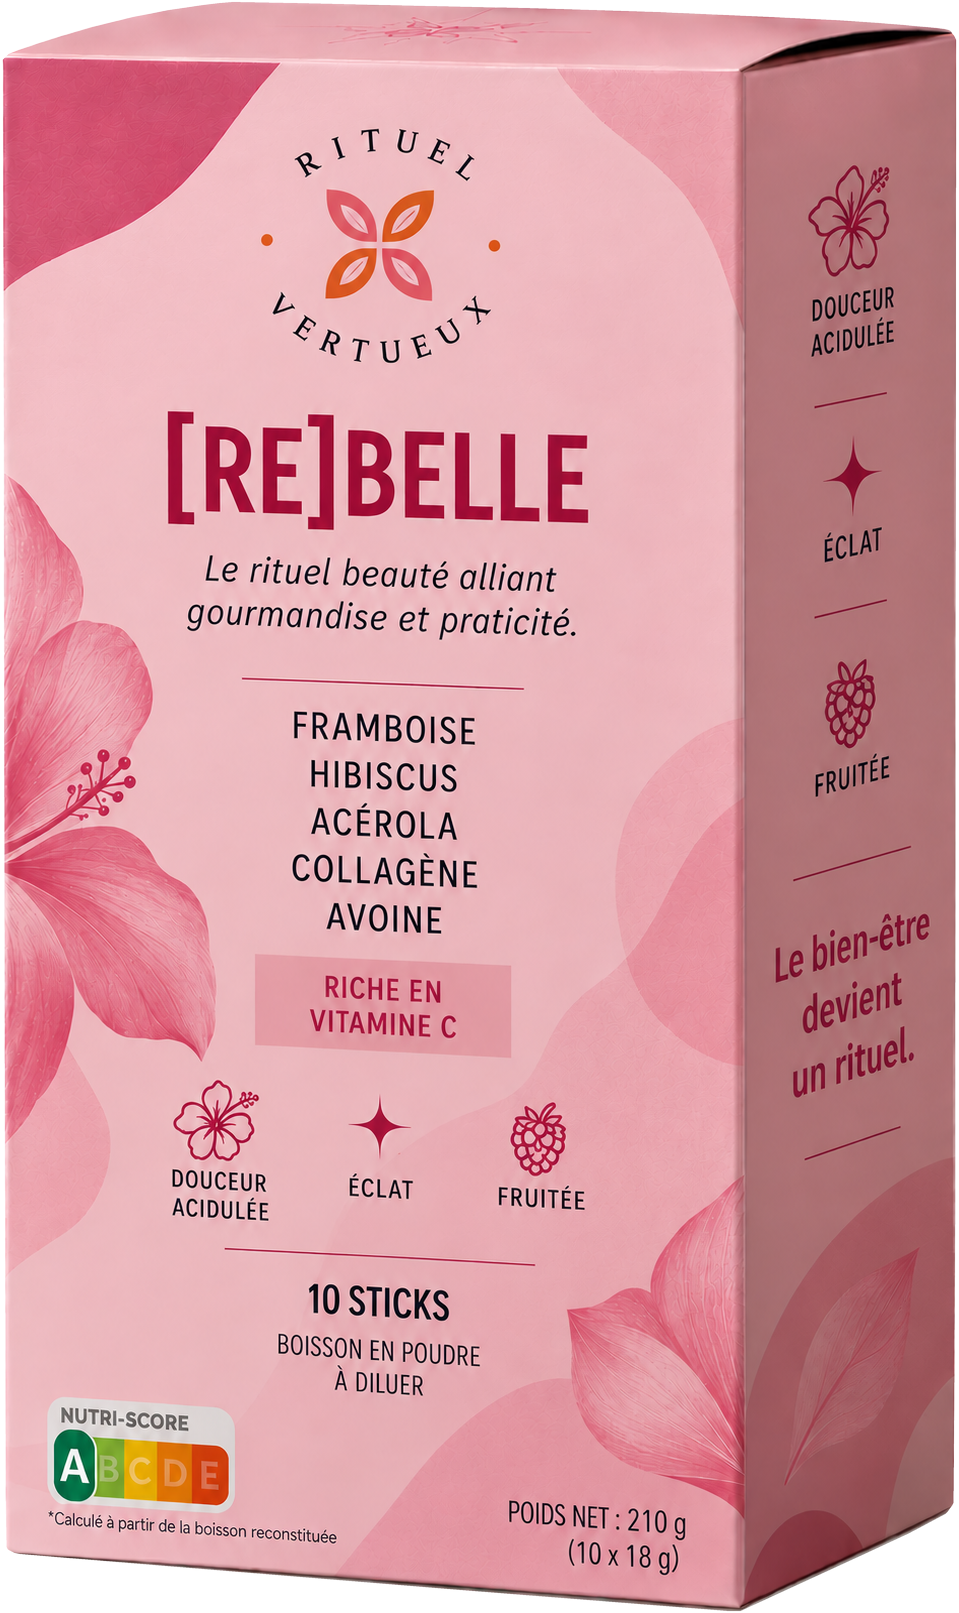
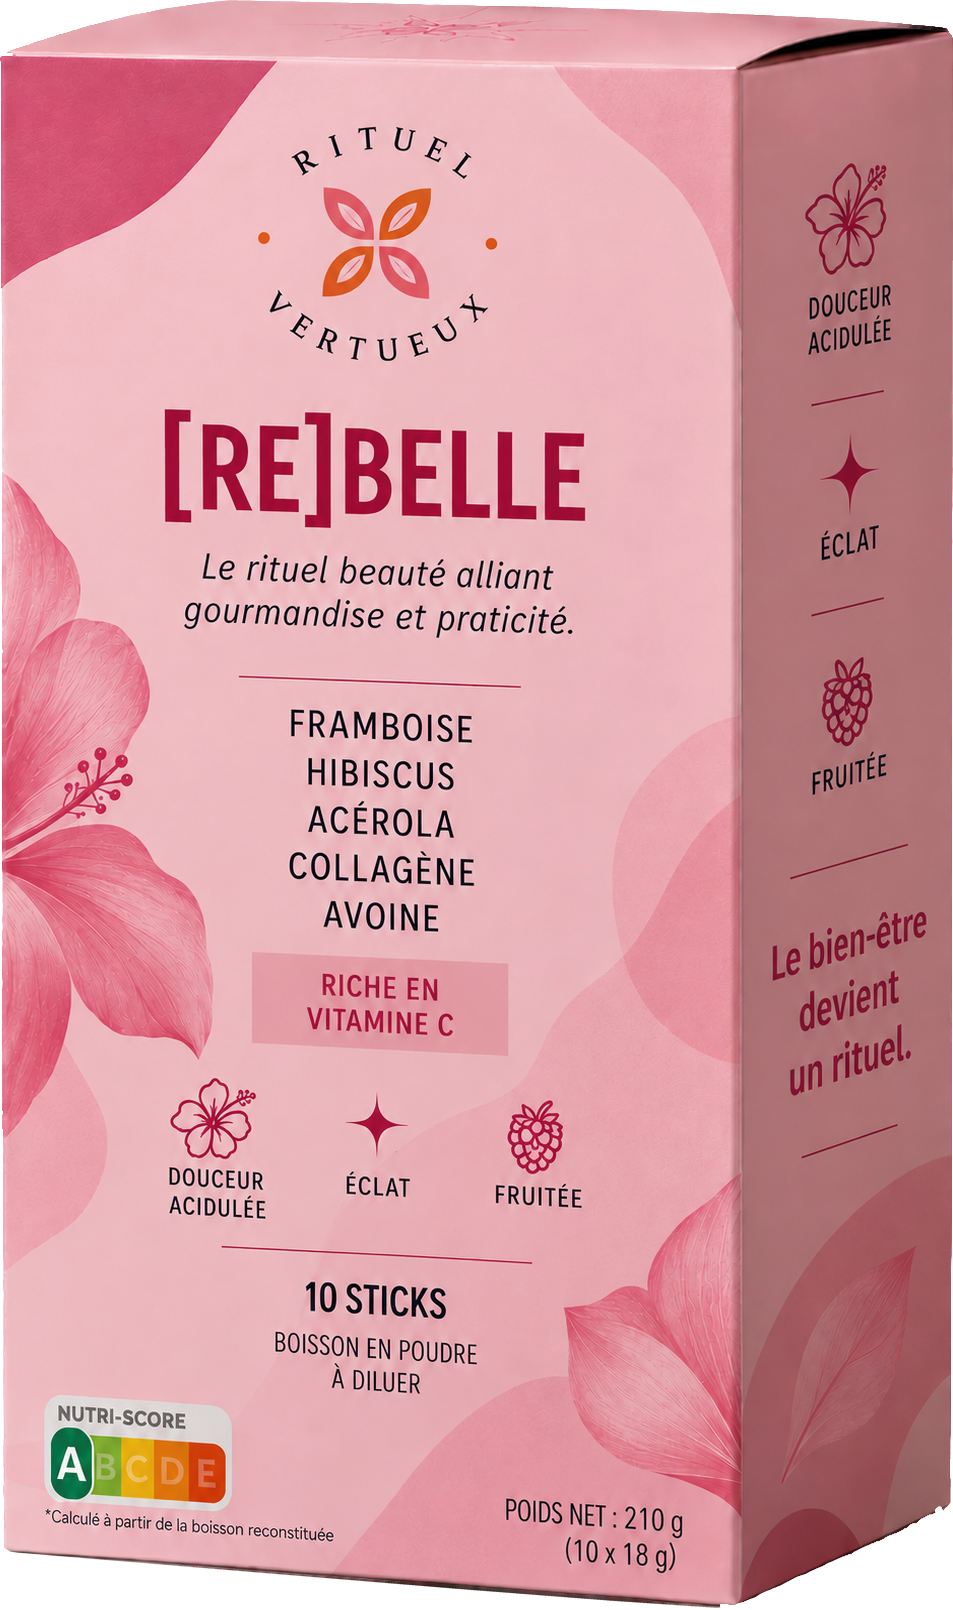
fix: détourage des boîtes et ombre portée coupée
- Boîtes : PNG fournis par la cliente (pngcorrectR/J), finalisés
  (ombre au sol opaque retirée via enveloppe convexe des pixels de
  carton, liseré blanc recoloré, arêtes sombres conservées)
- ResponsiveImage : plus d'overflow-hidden sur les détourés ; il
  coupait le drop-shadow et dessinait un rectangle autour des boîtes

diff --git a/src/components/ui/ResponsiveImage.tsx b/src/components/ui/ResponsiveImage.tsx
@@ -49,7 +49,14 @@ export function ResponsiveImage({
 
   return (
     <div
-      className={cn('relative overflow-hidden', layout === 'fill' && 'h-full w-full', className)}
+      className={cn(
+        'relative',
+        // overflow-hidden seulement pour les photos (placeholder flou agrandi) : sur les détourés,
+        // il couperait net l'ombre portée (drop-shadow) aux bords de l'image.
+        lqip && 'overflow-hidden',
+        layout === 'fill' && 'h-full w-full',
+        className,
+      )}
       style={{ ...(layout === 'natural' ? { aspectRatio: `${picture.img.w} / ${picture.img.h}` } : null), ...style }}
     >
       {lqip && (

diff --git a/scripts/prepare-images.py b/scripts/prepare-images.py
@@ -3,7 +3,8 @@
 Sources brutes : docs/photos/ (non versionnées). Sorties : src/assets/images/.
 - photos/ : JPEG q90, largeur max 1280 px (vite-imagetools génère ensuite AVIF/WebP).
 - cutouts/ : PNG avec alpha. Sticks : flood-fill depuis les bords (fond studio blanc).
-  Boîtes : masque couleur (l'ombre portée grise est exclue) → enveloppe convexe → tracé anticrénelé.
+  Boîtes : PNG détourés fournis par la cliente (pngcorrectR/J.png), finalisés par finish_box_cutout :
+  suppression des résidus, arêtes redressées (enveloppe convexe), liseré blanc retiré.
 Usage : python3 scripts/prepare-images.py
 """
 import os
@@ -55,7 +56,8 @@ PHOTOS = {
     46: ('reconfort-plaisir', None),
 }
 CUTOUTS = {0: 'rebelle-stick', 1: 'reconfort-stick'}
-BOXES = {2: 'rebelle-box', 3: 'reconfort-box'}
+# Boîtes : PNG fournis par la cliente (docs/photos, non versionnés), finalisés par finish_box_cutout.
+BOXES = {'pngcorrectR.png': 'rebelle-box', 'pngcorrectJ.png': 'reconfort-box'}
 
 def detour(im: Image.Image) -> Image.Image:
     im = im.convert('RGB')
@@ -133,6 +135,67 @@ def detour_box(im: Image.Image, supersample: int = 4, inset: float = 1.2) -> Ima
     return out.crop(alpha.getbbox())
 
 
+def finish_box_cutout(im: Image.Image, supersample: int = 4, inset: float = 1.5, band: int = 3) -> Image.Image:
+    """Termine un détourage de boîte « presque correct ».
+
+    1. Alpha borné par l'enveloppe convexe des pixels de carton (une boîte en 3/4 est convexe) :
+       supprime l'ombre portée restée opaque, les pixels résiduels, et redresse les arêtes.
+    2. Alpha d'origine érodé d'un pixel : retire le liseré de fond blanc.
+    3. Décontamination des couleurs : dans la bande de bord, un pixel plus clair que le carton
+       voisin (fond blanc qui bave) reprend la couleur du carton ; les arêtes sombres restent.
+    """
+    from scipy import ndimage
+
+    rgba = np.asarray(im.convert('RGBA')).astype(np.float32)
+    alpha = rgba[..., 3]
+    h, w = alpha.shape
+    # Seuls les pixels de carton servent à l'enveloppe : l'ombre portée au sol, grise et peu
+    # saturée, est exclue même si elle est opaque dans le fichier fourni.
+    rgb_in = rgba[..., :3]
+    saturation = rgb_in.max(axis=2) - rgb_in.min(axis=2)
+    darker = 250 - rgb_in.mean(axis=2)
+    mask = (alpha > 128) & ((saturation > 30) | (darker > 90))
+    mask = ndimage.binary_opening(mask, iterations=2)
+    labels, count = ndimage.label(mask)
+    if count > 1:
+        sizes = ndimage.sum(mask, labels, range(1, count + 1))
+        mask = labels == (int(np.argmax(sizes)) + 1)
+    ys, xs = np.nonzero(mask)
+    rows = {}
+    for x, y in zip(xs.tolist(), ys.tolist()):
+        lo, hi = rows.get(y, (x, x))
+        rows[y] = (min(lo, x), max(hi, x))
+    pts = [(lo, y) for y, (lo, hi) in rows.items()] + [(hi + 1, y) for y, (lo, hi) in rows.items()]
+    pts += [(lo, y + 1) for y, (lo, hi) in rows.items()] + [(hi + 1, y + 1) for y, (lo, hi) in rows.items()]
+    hull = convex_hull(pts)
+    cx = sum(p[0] for p in hull) / len(hull)
+    cy = sum(p[1] for p in hull) / len(hull)
+    def shrink(p):
+        dx, dy = p[0] - cx, p[1] - cy
+        dist = (dx * dx + dy * dy) ** 0.5 or 1
+        return (p[0] - dx / dist * inset, p[1] - dy / dist * inset)
+    big = Image.new('L', (w * supersample, h * supersample), 0)
+    ImageDraw.Draw(big).polygon([(x * supersample, y * supersample) for x, y in map(shrink, hull)], fill=255)
+    hull_alpha = np.asarray(big.resize((w, h), Image.LANCZOS)).astype(np.float32)
+    eroded = ndimage.grey_erosion(alpha, size=(3, 3))
+    final_alpha = np.minimum(hull_alpha, eroded)
+    # couleurs : pixels « pleins » loin du bord = référence ; le reste prend la couleur du plus proche
+    solid = ndimage.binary_erosion(final_alpha >= 250, iterations=band)
+    _, (iy, ix) = ndimage.distance_transform_edt(~solid, return_indices=True)
+    rgb = rgba[..., :3].copy()
+    edge = ~solid
+    reference = rgb.copy()
+    reference[edge] = rgba[iy[edge], ix[edge], :3]
+    reference = np.stack([ndimage.gaussian_filter(reference[..., c], 1.5) for c in range(3)], axis=-1)
+    # Seuls les pixels de bord plus clairs que le carton voisin (fond blanc qui bave) sont recolorés ;
+    # les traits sombres naturels (arêtes du carton) sont conservés.
+    contaminated = edge & (rgb.mean(axis=2) > reference.mean(axis=2) + 10)
+    rgb[contaminated] = reference[contaminated]
+    out = np.dstack([rgb, final_alpha]).clip(0, 255).astype(np.uint8)
+    result = Image.fromarray(out, 'RGBA')
+    return result.crop(result.getchannel('A').getbbox())
+
+
 for idx, (name, crop) in PHOTOS.items():
     im = Image.open(src(idx)).convert('RGB')
     if crop:
@@ -148,7 +211,7 @@ for idx, name in CUTOUTS.items():
     out.save(os.path.join(OUT, 'cutouts', f'{name}.png'), optimize=True)
     print(name, out.size)
 
-for idx, name in BOXES.items():
-    out = detour_box(Image.open(src(idx)))
+for filename, name in BOXES.items():
+    out = finish_box_cutout(Image.open(os.path.join(SRC, filename)))
     out.save(os.path.join(OUT, 'cutouts', f'{name}.png'), optimize=True)
     print(name, out.size)

diff --git a/docs/photos/INVENTAIRE.md b/docs/photos/INVENTAIRE.md
@@ -13,8 +13,8 @@ Les images retenues sont copiées (et recadrées/détourées si besoin) dans `sr
 | Logo | `RV__Logo_CouleursAplats.svg` (ancienne version « LE RITUEL », texte noir) + logo imprimé sur le packaging (#02) | Composant SVG `Logo` recréé : pétales officiels repris du SVG + texte circulaire « RITUEL / VERTUEUX » comme sur le packaging |
 | Stick [RE]BELLE détouré | #00 (studio fond blanc, 724×2172) détouré par flood-fill | `rebelle-stick.png` (547×2131, alpha) |
 | Stick [RE]CONFORT détouré | #01 (studio fond blanc, 725×2170) détouré | `reconfort-stick.png` (535×2134, alpha) |
-| Boîte [RE]BELLE détourée | #02 (studio fond blanc, 975×1613) détouré | `rebelle-box.png` (alpha) |
-| Boîte [RE]CONFORT détourée | #03 (studio fond blanc, 975×1613) détouré | `reconfort-box.png` (alpha) |
+| Boîte [RE]BELLE détourée | `pngcorrectR.png` (fourni par la cliente, 1179×1693, sujet 958×1612) finalisé par `finish_box_cutout` | `rebelle-box.png` (953×1610, alpha) |
+| Boîte [RE]CONFORT détourée | `pngcorrectJ.png` (fourni par la cliente) finalisé par `finish_box_cutout` | `reconfort-box.png` (954×1610, alpha) |
 
 Les détourés fournis (`IMG_3426*.png`) sont conformes mais en basse définition (sujet ≈ 340–680 px de large, texte flou) : remplacés par les versions HD détourées depuis #00–#03. Boîtes : détourage par enveloppe convexe (ombre portée exclue), refait en v0.1 après retour cliente.
 
@@ -77,6 +77,8 @@ Les détourés fournis (`IMG_3426*.png`) sont conformes mais en basse définitio
 | 52 | IMG_3426(2).png | Boîte détourée (alpha) | [RE]BELLE | Portrait 1179×1693 (sujet 424×728) | ★ | ÉCARTÉ — doublon basse déf. de `rebelle-box.png` | — |
 | 53 | IMG_3426(3).png | Boîte détourée (alpha) | [RE]CONFORT | Portrait 1179×1693 (sujet 398×748) | ★ | ÉCARTÉ — doublon basse déf. de `reconfort-box.png` | — |
 | 54 | IMG_3426.png | Stick détouré (alpha) | [RE]CONFORT | Portrait 1179×1693 (sujet 337×1220) | ★★ | ÉCARTÉ — doublon basse déf. de `reconfort-stick.png` | — |
+| 56 | pngcorrectR.png | Boîte détourée fournie (v0.1), quasi propre : ombre au sol restée opaque, liseré blanc | [RE]BELLE | Portrait 1179×1693 (sujet 958×1612) | ★★★ | OK (finalisé) | `rebelle-box.png` : fiches, boutique, panier, page Pro |
+| 57 | pngcorrectJ.png | Boîte détourée fournie (v0.1), mêmes défauts | [RE]CONFORT | Portrait 1179×1693 (sujet 958×1612) | ★★★ | OK (finalisé) | `reconfort-box.png` |
 | 55 | IMG_3428.jpeg | Boîte sur fond blanc, compressée | [RE]CONFORT | Portrait 440×879 | ★ | ÉCARTÉ — basse résolution, doublon de #03 | — |
 | — | RV__Logo_CouleursAplats.svg | Logo vectoriel, aplats | Marque | 170×178 (vectoriel) | ★★★ | Source (non livré tel quel) — texte « LE RITUEL » obsolète (le packaging et le brief indiquent « RITUEL ») | Pétales repris dans le composant `Logo` |
 | — | RV__Logo_CouleursDegrade.svg | Logo vectoriel, pétales en dégradé | Marque | vectoriel | ★★★ | ÉCARTÉ — même texte obsolète ; version aplats préférée | — |

diff --git a/docs/DECISIONS.md b/docs/DECISIONS.md
@@ -7,7 +7,8 @@ Décisions prises en autonomie pendant la construction de la v0. Celles marquée
 | # | Sujet | Décision | Pourquoi |
 |---|---|---|---|
 | 1 | Sources photos | Les images brutes de `docs/photos/` (~90 Mo) et le brief `.odt` restent hors de git (`.gitignore`). Seuls `INVENTAIRE.md`, les SVG et les images préparées de `src/assets/images/` sont versionnés. | Poids du dépôt, déploiement Vercel plus rapide. `npm run images:prepare` régénère tout depuis les sources locales. |
-| 2 | Détourés | Sticks et boîtes détourés à partir des visuels studio HD (#00–#03) plutôt que les PNG `IMG_3426*` fournis. Boîtes (v0.1, suite au retour cliente) : masque couleur excluant l’ombre portée grise, enveloppe convexe, tracé anticrénelé ×4 rétracté de 1 px. | Les PNG fournis ont un détourage propre mais sont en basse définition (sujet ≤ 680 px, texte flou) ; la première version automatique laissait des bords déchiquetés à cause de l’ombre portée. |
+| 2 | Détourés | Sticks détourés depuis les visuels studio HD (#00, #01). Boîtes (v0.1) : PNG fournis par la cliente (`pngcorrectR/J.png`), finalisés par `finish_box_cutout` : enveloppe convexe calculée sur les seuls pixels de carton (l’ombre au sol restée opaque est retirée), bords rétractés d’1 px, liseré blanc recoloré sans toucher aux arêtes sombres. | Les premiers PNG fournis (`IMG_3426*`) étaient trop petits ; les détourages automatiques depuis la photo gardaient une partie de l’ombre. |
+| 2b | Ombre portée des détourés | `ResponsiveImage` n’applique plus `overflow: hidden` aux détourés (seulement aux photos, pour le placeholder flou). | Le `drop-shadow` CSS des boîtes était coupé net aux bords de l’image et dessinait un rectangle sombre autour de la boîte. |
 | 3 | Mention « Le bien-être devient un rituel. » sur la tranche des boîtes | Visuels de boîtes conservés malgré cette mention (petite, secondaire). Visuels où elle est l'accroche principale écartés (#33, #42, #43…). | Les boîtes sont indispensables aux fiches produits ; aucun visuel de boîte sans cette mention n'existe. **À valider** : packaging à mettre à jour ? |
 | 4 | Logo | Le SVG fourni affiche « LE RITUEL VERTUEUX » (le brief demande d'enlever « LE »). Composant `Logo` recréé : pétales vectoriels **officiels** (repris du SVG) + texte circulaire « RITUEL » / « VERTUEUX » en Fraunces, deux points orange. Variante `mark` (fleur seule) pour le header mobile et le favicon. | Fidélité au packaging actuel. **À valider** : police du texte circulaire (la typo exacte du logo n'a pas été fournie). |
 | 5 | Couleurs du logo | Pétales en corail `#EC7061` et orange `#EB7A25` (couleurs du SVG officiel) plutôt qu'en terracotta unique. | Fidélité à la charte existante. |

diff --git a/docs/RAPPORT_V0.md b/docs/RAPPORT_V0.md
@@ -39,7 +39,7 @@ Site vitrine + boutique fictive (projet d'études). Aucune transaction réelle, 
 
 ## 2. Images
 
-37 visuels retenus sur 56 (voir **`docs/photos/INVENTAIRE.md`** : statut, raison d'exclusion et emplacement de chaque fichier). Les 4 détourés (2 sticks, 2 boîtes) ont été produits en HD à partir des visuels studio ; les boîtes sont détourées par enveloppe convexe (bords nets, ombre portée exclue). 223 fichiers livrés (AVIF + WebP, 3 largeurs), **tous < 250 Ko** (`npm run images:check`).
+37 visuels retenus sur 56 (voir **`docs/photos/INVENTAIRE.md`** : statut, raison d'exclusion et emplacement de chaque fichier). Les 4 détourés (2 sticks, 2 boîtes) ont été produits en HD à partir des visuels studio ; les boîtes proviennent des PNG fournis par la cliente, finalisés (voir DECISIONS n° 2). 223 fichiers livrés (AVIF + WebP, 3 largeurs), **tous < 250 Ko** (`npm run images:check`).
 
 Écartés notamment : roll-up et e-mailing avec sous-titres interdits, visuels « Le bien-être devient un rituel » en accroche, visuel « fruits des bois », flat-lay avec fraises, infographie au packaging non conforme, doublons et documents de travail.
 
@@ -106,4 +106,4 @@ Les images sources brutes (`docs/photos/*.png`) ne sont pas versionnées ; les i
 - Prix corrigés : [RE]BELLE **10,28 €**, [RE]CONFORT **10,18 €** (source unique `src/data/products.ts`) ; solde du compte démo recalculé : **551 pts** (niveau Initié inchangé).
 - Accueil, « Ce qu’il y a dans un stick » : texte remplacé par « Liste d’ingrédients courte, uniquement le sucre naturellement présent dans les fruits et des bénéfices fonctionnels. »
 - Préparation : « 250 ml d’eau froide ou chaude, **ou de lait de votre choix** » partout (fiches, Pro, accueil, 3 gestes, gamme, FAQ, recettes, le rituel, notre histoire).
-- Boîtes détourées refaites. Les PNG fournis (`IMG_3426(2)`/`(3)`) ont un détourage propre mais sont trop petits et flous (424 × 728 px, texte du packaging illisible sur les fiches) : ils ne sont pas utilisés. Nouveau détourage depuis les visuels studio HD (975 × 1 613 px) par enveloppe convexe, ombre portée exclue, bords anticrénelés.
+- Boîtes détourées : PNG fournis par la cliente (`pngcorrectR/J.png`, HD) finalisés (ombre au sol restée opaque retirée, liseré blanc supprimé, arêtes redressées). Cause du « rectangle » visible autour des boîtes corrigée : l’ombre CSS (`drop-shadow`) était coupée par le conteneur de l’image.
